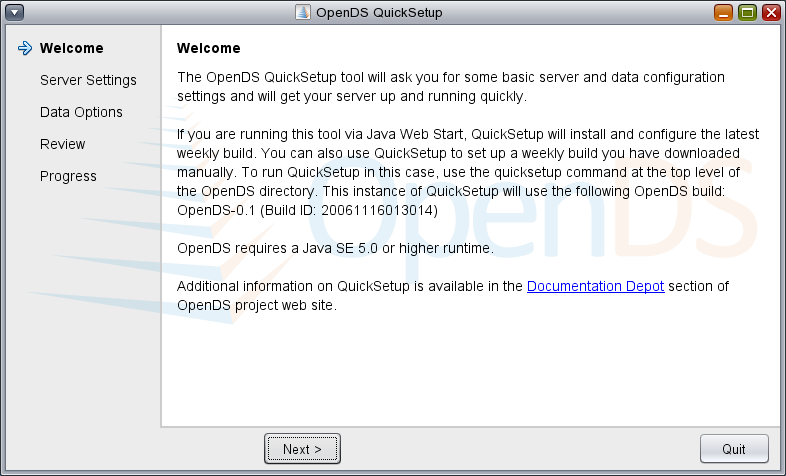
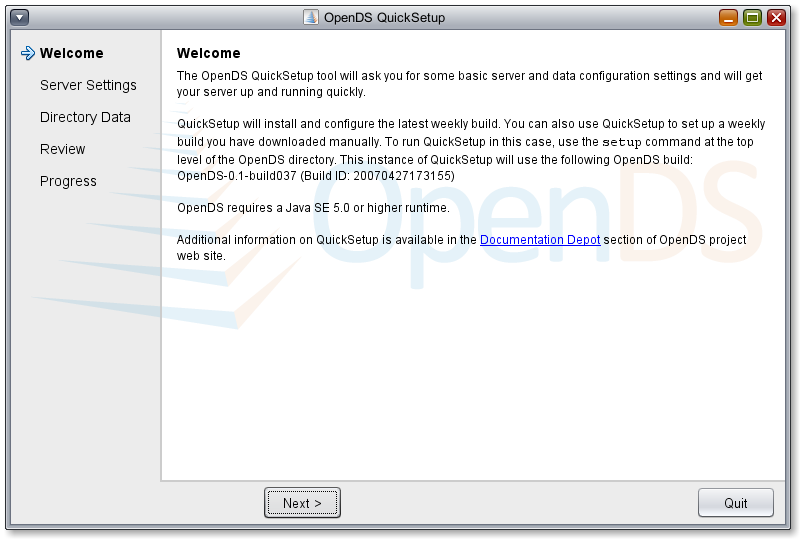
Updates to QuickSetup page and images
git-svn-id: https://svn.forgerock.org/opendj/trunk@1763 41b1ffd8-f28e-4786-ab96-9950f0a78031

Changed region(s): [[0.0, 0.0, 1.0, 1.0]]

diff --git a/www/public/docs/user-docs/QuickSetup-guide.html b/www/public/docs/user-docs/QuickSetup-guide.html
@@ -23,7 +23,7 @@
 </table>
 <hr noshade size="1" >
 <h1>Overview</h1>
-<p> QuickSetup is a Java-based graphical tool designed to let you to quickly  configure an OpenDS LDAP server, load it up with data and get it running. It asks some basic questions about the server configuration and then gives you the choice of leaving your database empty, loading your server with data   from your own  LDIF or loading you server with sample data that QuickSetup will automatically generates for you.  It will  optionally even start the server  for you when it's done with all of that. </p>
+<p> QuickSetup is a Java-based graphical tool designed to let you to quickly  configure an OpenDS LDAP server, load it up with data and get it running. It asks some basic questions about the server configuration and then gives you the choice of leaving your database empty, loading your server with data   from your own  LDIF or loading you server with sample data that QuickSetup will automatically generates for you.  It will  optionally  start the server  for you when it's done with all of that. On the final panel you will be given the option of launching the <a href="StatusPanel-guide.html">Status Panel</a>, which is a graphical tool that provides basic server  information and  allows you to start, stop or restart the server. </p>
 <p>QuickSetup can be run remotely via Java Web Start or it can be run locally from within a weekly build that you've already  downloaded and unzipped. The main difference is that if you run it from Java Web Start QuickSetup will automatically download and unzip the latest build for you in addition to handling server configuration, whereas if you run it locally it will configure the build  it is bundled with. Both of these options are described in more detail below. </p>
 <p><a href="http://builds.opends.org/install/QuickSetup.jnlp"><strong>Launch QuickSetup Now</strong></a></p>
 <h3>Running OpenDS QuickSetup via Java Web Start</h3>
@@ -31,15 +31,16 @@
 <p> You can launch the Java Web Start version of QuickSetup  via the <a href="http://builds.opends.org/install/QuickSetup.jnlp">Launch QuickSetup (via Java Web Start)</a> links on the OpenDS site, or if you have  run QuickSetup in the past, you can double-click the OpenDSQuickSetup.jnlp file that was downloaded when you ran it. When you launch QuickSetup, Java Web Start will  check to make sure that you have the latest version of the QuickSetup bits and will download them if necessary. It will then show you the QuickSetup Welcome Page.</p>
 <p>QuickSetup then steps you through your server configuration and data import options, gives you a chance to review what you've specified and then gives you detailed output on its progress. See the screenshots below to see what's involved. </p>
 <h3>Running OpenDS QuickSetup Locally</h3>
-<p>You can also run QuickSetup after you have downloaded and unzipped a weekly build. All you need to do is run the setup.sh (or setup.bat) command at the top level of your OpenDS installation directory. The configuration screens are almost identical to those shown below with the exception that you won't be asked to provide a installation directory on the Server Settings panel. If you want to run a functionally-equivalent command-line version of the QuickSetup tool, just execute the setup command with a --cli option, like so: <font face="monospace">setup --cli </font></p>
+<p>You can also run QuickSetup after you have downloaded and unzipped a weekly build. All you need to do is run the <font face="monospace">setup</font> (or <font face="monospace">setup.bat</font>) command located at the top level of your OpenDS installation directory. The configuration screens are almost identical to those shown below with the exception that you won't be asked to provide a installation directory on the Server Settings panel. If you want to run a functionally-equivalent command-line version of the QuickSetup tool, just execute the setup command with a --cli option, like so: <font face="monospace">setup --cli </font></p>
 <hr noshade="noshade" size="1" />
 <h1>Screenshots</h1>
-<p><img src="QuickSetup-images/qs-panel1.png" alt="OpenDS QuickSetup Welcome Screen" width="786" height="476" /></p>
-<p><img src="QuickSetup-images/qs-panel2.png" alt="OpenDS QuickSetup Server Settings Screen" width="786" height="476" /></p>
-<p><img src="QuickSetup-images/qs-panel3.png" alt="OpenDS QuickSetup Data Options Screen" width="786" height="476" /></p>
-<p><img src="QuickSetup-images/qs-panel4.png" alt="OpenDS QuickSetup Review Screen" width="786" height="476" /></p>
-<p><img src="QuickSetup-images/qs-panel5.png" alt="OpenDS QuickSetup Progess Screen" width="786" height="476" /></p>
-<p><img src="QuickSetup-images/qs-panel5a.png" alt="OpenDS QuickSetup Pregress Screen when Done" width="786" height="476" /></p>
+<p><img src="QuickSetup-images/qs-panel1.png" alt="OpenDS QuickSetup Welcome Screen" width="800" height="539" /></p>
+<p><img src="QuickSetup-images/qs-panel2.png" alt="OpenDS QuickSetup Server Settings Screen" width="800" height="539" /></p>
+<p><img src="QuickSetup-images/qs-panel3.png" alt="OpenDS QuickSetup Data Options Screen" width="800" height="539" /></p>
+<p><img src="QuickSetup-images/qs-panel4.png" alt="OpenDS QuickSetup Review Screen" width="800" height="539" /></p>
+<p><img src="QuickSetup-images/qs-panel5.png" alt="OpenDS QuickSetup Progess Screen" width="800" height="539" /></p>
+<p><img src="QuickSetup-images/qs-panel5a.png" alt="OpenDS QuickSetup Progress Screen when Done" width="800" height="539" /></p>
+<p><img src="QuickSetup-images/qs-statpanel.png" alt="StatusPanel Screen" width="675" height="653" /></p>
 <hr noshade size="1" >
 <h1>Feedback</h1>
 <p>If you have any questions, comments or problems with OpenDS QuickSetup, send an e-mail to the <a href="users@opends.dev.java.net">users@opends.dev.java.net</a> mailing list.</p>
